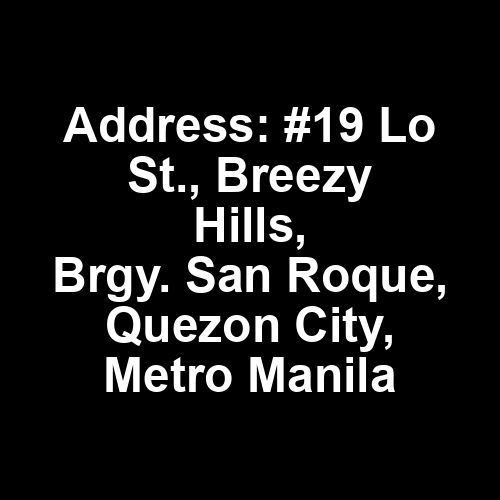
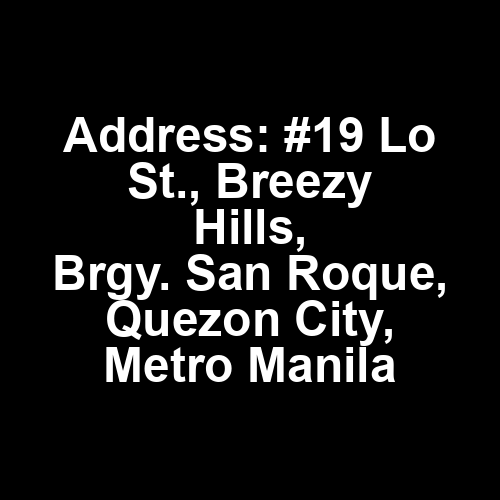
just revert some changes in `imagesmacker/fonts.py`

Changed region(s): [[0.12, 0.21, 0.9, 0.81], [0.57, 0.21, 0.87, 0.33], [0.75, 0.21, 0.78, 0.24]]

diff --git a/imagesmacker/fonts.py b/imagesmacker/fonts.py
@@ -29,7 +29,6 @@ class FontSizeCalculator:
         """
         self.draw = draw
         self.font_path = font_path
-        self.font_cached = font_loader(self.font_path)
 
     def get_text_bbox(self, size: int, text: str) -> tuple[int, int]:
         """
@@ -45,6 +44,6 @@ class FontSizeCalculator:
         x1, y1, x2, y2 = self.draw.multiline_textbbox(
             xy=(0, 0),
             text=text,
-            font=self.font_cached,
+            font=font_loader(self.font_path, size),
         )
         return (x2 - x1, y2 - y1)

diff --git a/examples/03_multiline_text.py b/examples/03_multiline_text.py
@@ -22,6 +22,7 @@ field_attributes = TextFieldAttributes(
         font_size=50,
         anchor="mm",
         style=TextStyle(fill="#fff"),
+        line_height=1.1,
     ),
 )
 
